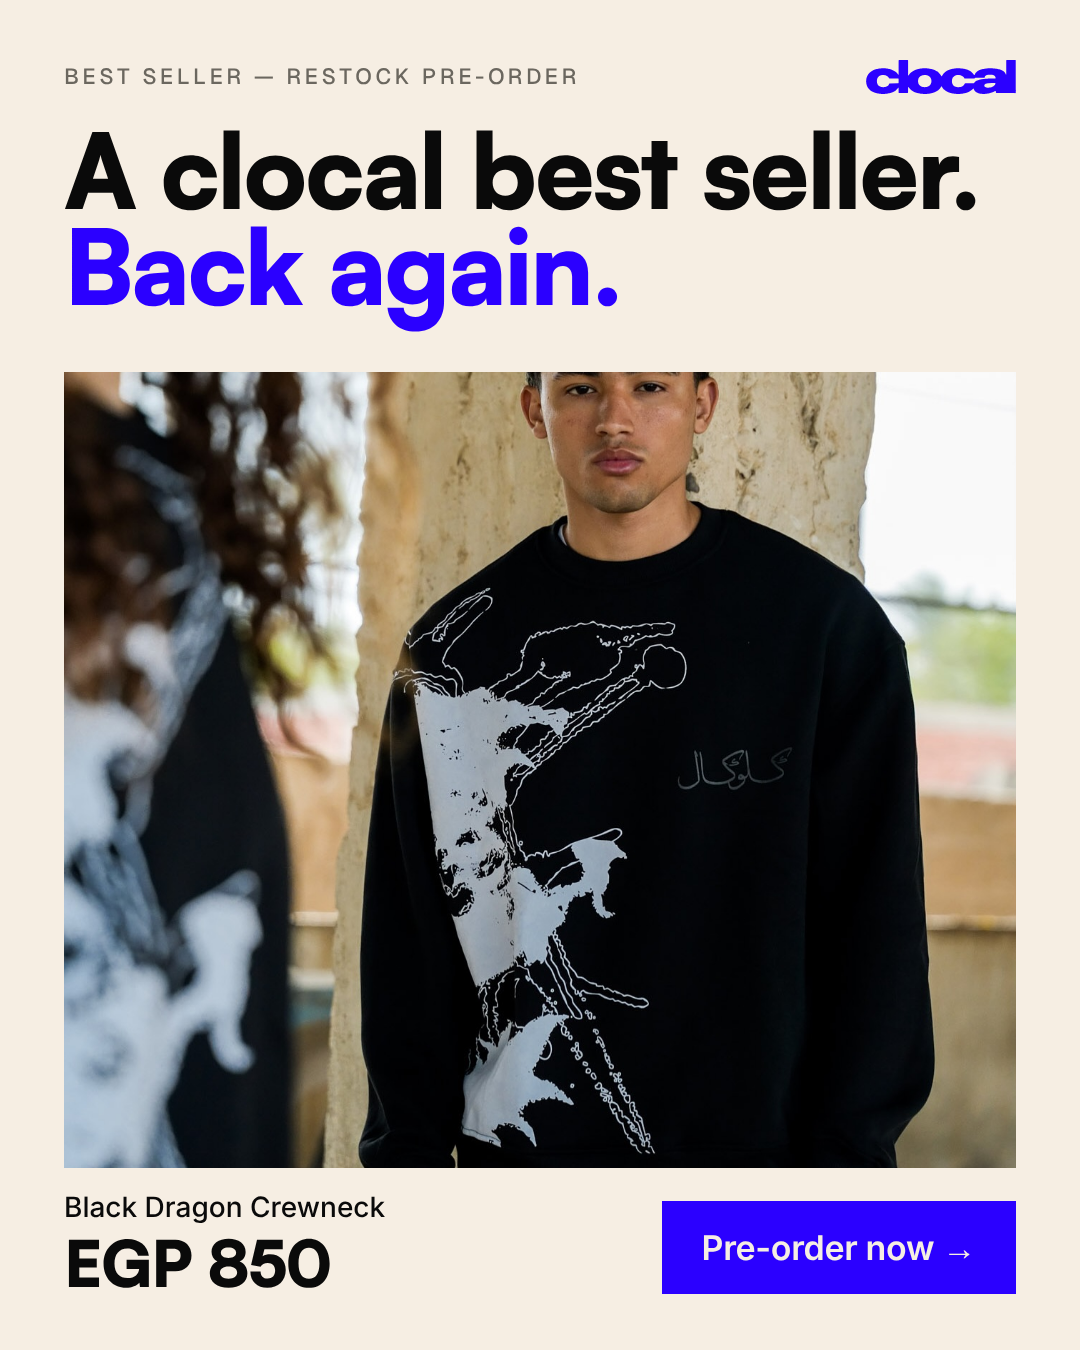
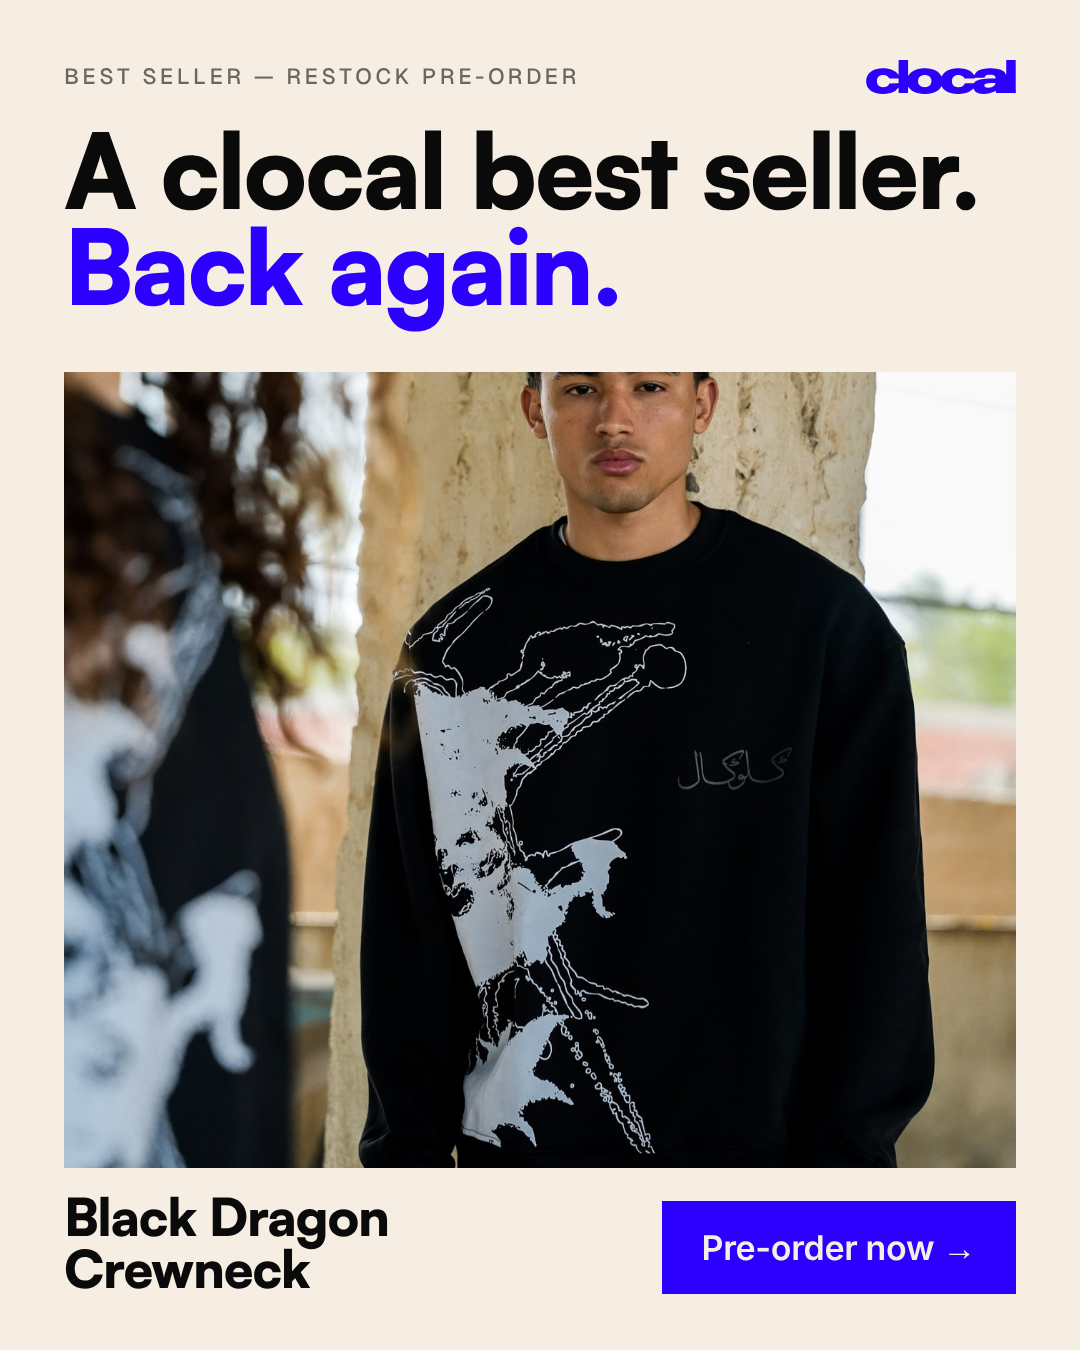
Remove price from AD02 best-seller creative
Claude-Session: https://claude.ai/code/session_0134z9woteaCD6XRmPMXin1q

Changed region(s): [[0.0611, 0.8711, 0.3667, 0.9644]]

diff --git a/clocal-black-dragon-ads/src/ad02-best-seller_4x5.html b/clocal-black-dragon-ads/src/ad02-best-seller_4x5.html
@@ -8,7 +8,7 @@
   .ph { left: 64px; top: 372px; width: 952px; height: 796px; }
   .foot { position: absolute; left: 64px; right: 64px; bottom: 56px; display: flex; justify-content: space-between; align-items: flex-end; }
   .foot .name { font-family: "Inter"; font-weight: 500; font-size: 28px; }
-  .foot .amt { font-family: "Satoshi"; font-weight: 900; font-size: 64px; letter-spacing: -0.02em; line-height: 1; margin-top: 6px; }
+  .foot .amt { font-family: "Satoshi"; font-weight: 900; font-size: 52px; letter-spacing: -0.02em; line-height: 1; }
   
 </style></head>
 <body>
@@ -19,7 +19,7 @@
   </div>
   <div class="photo ph" data-src="photos/p14_man_pillar_front.jpg" data-crop="0,290,1333"></div>
   <div class="foot">
-    <div><div class="name">Black Dragon Crewneck</div><div class="amt">EGP 850</div></div>
+    <div class="amt">Black Dragon<br>Crewneck</div>
     <span class="btn">Pre-order now →</span>
   </div>
 </div>
